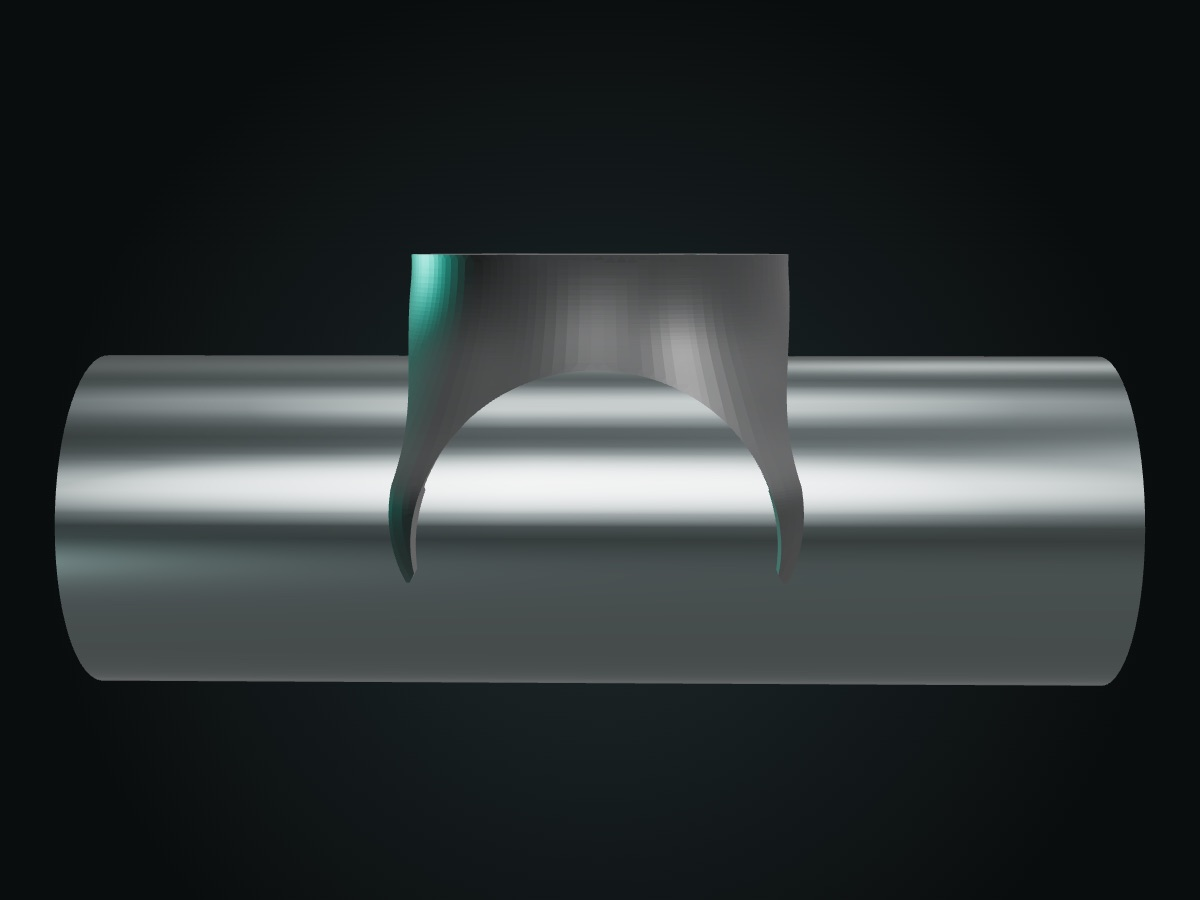
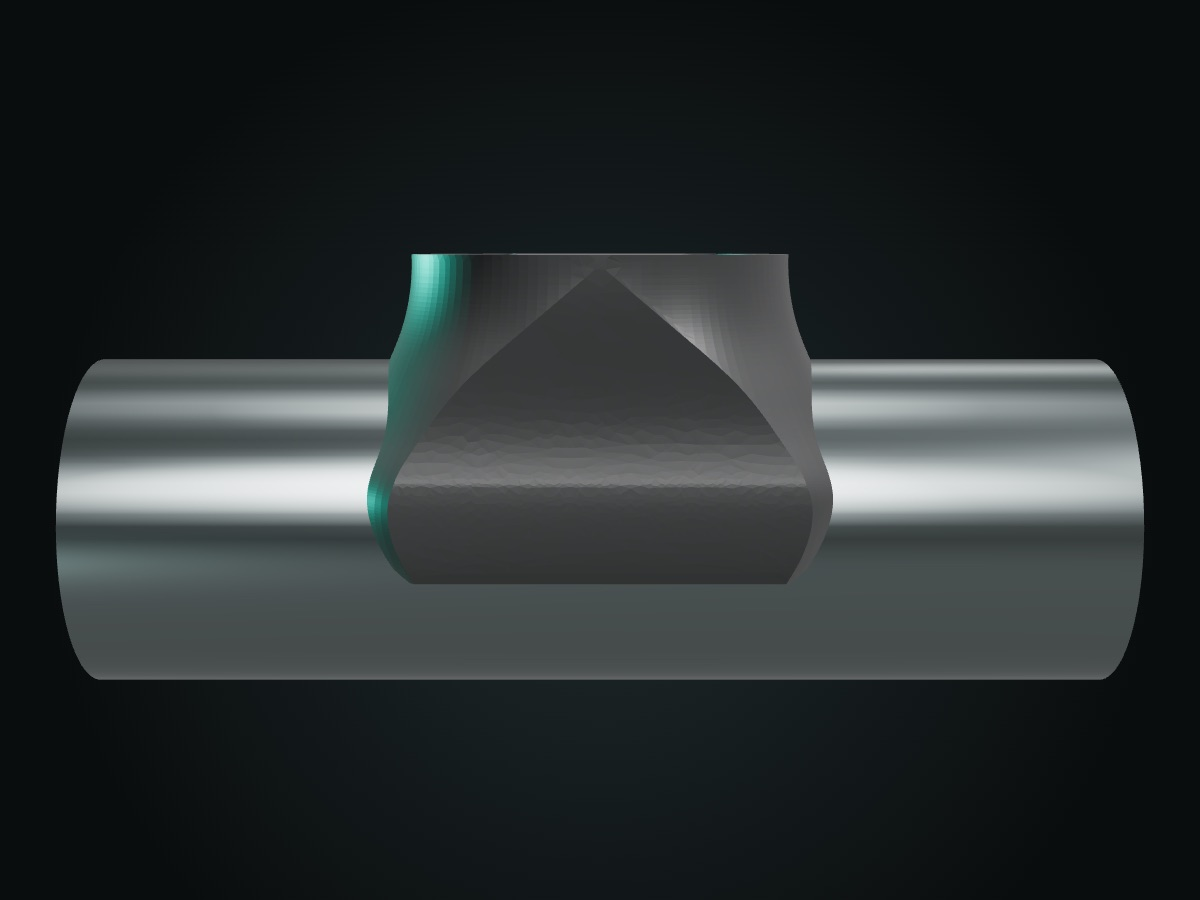
Fix bar clip orientation (bar along X) and show the silicone strips

diff --git a/product.html b/product.html
@@ -55,10 +55,10 @@
   const p = P[id];
 
   const GALLERY = {
-    kit: ['3d', 'assets/img/clip-hero.jpg', 'assets/img/clip-chalk.jpg', 'assets/img/clip-side.jpg', 'assets/img/ring.jpg'],
+    kit: ['3d', 'assets/img/clip-hero.jpg', 'assets/img/clip-strips.jpg', 'assets/img/clip-chalk.jpg', 'assets/img/ring.jpg'],
   };
   const SPECS = {
-    kit: [['Support', 'POWR Bar Clip, PETG, ≈ 42 g', 'POWR Bar Clip, PETG, ≈ 42 g', 'Soporte'], ['Fits', 'Olympic sleeves Ø50 mm', 'Manguitos olímpicos Ø50 mm', 'Compatible'], ['Magnet', 'Double-sided, N52 neodymium', 'Doble cara, neodimio N52', 'Imán'], ['Phone ring', 'Adhesive, MagSafe size (Ø46–54 mm)', 'Adhesivo, tamaño MagSafe (Ø46–54 mm)', 'Anillo'], ['Grip', 'Rubber strips, replaceable', 'Tiras de goma, reemplazables', 'Agarre'], ['Anti-rotation', 'Designed for > 0.9 N·m on the sleeve', 'Diseñado para > 0,9 N·m sobre el manguito', 'Anti-giro'], ['Made in', 'Spain', 'España', 'Fabricado en']],
+    kit: [['Support', 'POWR Bar Clip, PETG, ≈ 42 g', 'POWR Bar Clip, PETG, ≈ 42 g', 'Soporte'], ['Fits', 'Olympic sleeves Ø50 mm', 'Manguitos olímpicos Ø50 mm', 'Compatible'], ['Magnet', 'Double-sided, N52 neodymium', 'Doble cara, neodimio N52', 'Imán'], ['Phone ring', 'Adhesive, MagSafe size (Ø46–54 mm)', 'Adhesivo, tamaño MagSafe (Ø46–54 mm)', 'Anillo'], ['Grip', '4 silicone strips in the bore, replaceable', '4 tiras de silicona en el interior, reemplazables', 'Agarre'], ['Anti-rotation', 'Designed for > 0.9 N·m on the sleeve', 'Diseñado para > 0,9 N·m sobre el manguito', 'Anti-giro'], ['Made in', 'Spain', 'España', 'Fabricado en']],
   };
 
   document.title = `${p.name} — POWR`;
@@ -130,9 +130,9 @@
         viewerEl = document.createElement('div'); viewerEl.style.cssText = 'position:absolute;inset:0';
         stage.appendChild(viewerEl);
         try {
-          const { mountViewer } = await import('./assets/js/viewer.js');
+          const { mountViewer, CLIP_STRIPS, CLIP_BAR_RADIUS } = await import('./assets/js/viewer.js');
           const hex = (p.colors.find((c) => c.id === color) || p.colors[0]).hex;
-          viewer = await mountViewer(viewerEl, { parts: [{ url: p.model, color: hex }], bar: 'y', cameraDist: 270, barLength: 150, tilt: 0.42 });
+          viewer = await mountViewer(viewerEl, { parts: [{ url: p.model, color: hex }], bar: 'x', cameraDist: 270, barLength: 150, tilt: 0.42, strips: CLIP_STRIPS, barRadius: CLIP_BAR_RADIUS });
         } catch { viewerEl.innerHTML = `<img src="${p.img}" alt="" style="width:100%;height:100%;object-fit:cover">`; }
       }
       viewerEl.style.display = '';
@@ -150,7 +150,7 @@
     if (!id.includes('kit')) { ex.style.display = 'none'; return; }
     ex.innerHTML = `<div class="wrap"><div class="head center"><span class="eyebrow">${t('Designed to disappear', 'Diseñado para desaparecer')}</span><h2>${t('Engineered like a barbell collar.', 'Diseñado como un collarín.')}</h2></div>
       <div class="grid g3">
-        <div class="card reveal"><div class="ic">${'<svg viewBox="0 0 24 24" fill="none" stroke="currentColor" stroke-width="1.8" stroke-linecap="round"><circle cx="12" cy="12" r="8"/><path d="M12 4v4M12 16v4"/></svg>'}</div><h3>${t('Wraps 200° of the bar', 'Abraza 200° de la barra')}</h3><p>${t('Snaps onto the sleeve and grips with rubber strips, so it does not spin when the bar rolls.', 'Se engancha al manguito y agarra con tiras de goma: no gira cuando la barra rueda.')}</p></div>
+        <div class="card reveal"><div class="ic">${'<svg viewBox="0 0 24 24" fill="none" stroke="currentColor" stroke-width="1.8" stroke-linecap="round"><circle cx="12" cy="12" r="8"/><path d="M12 4v4M12 16v4"/></svg>'}</div><h3>${t('Wraps 200° of the bar', 'Abraza 200° de la barra')}</h3><p>${t('Snaps onto the sleeve and grips on four silicone strips, so it does not spin when the bar rolls.', 'Se engancha al manguito y agarra sobre cuatro tiras de silicona: no gira cuando la barra rueda.')}</p></div>
         <div class="card reveal d1"><div class="ic">${'<svg viewBox="0 0 24 24" fill="none" stroke="currentColor" stroke-width="1.8" stroke-linecap="round"><path d="M4 20h16M6 16l6-12 6 12"/></svg>'}</div><h3>${t('A flat face for the phone', 'Una cara plana para el móvil')}</h3><p>${t('Optimised in 1,600+ simulated shapes so the magnetic face stays flat under load — the phone sits flush and reads true.', 'Optimizado entre más de 1.600 formas simuladas para que la cara magnética siga plana con carga: el móvil apoya bien y mide bien.')}</p></div>
         <div class="card reveal d2"><div class="ic">${'<svg viewBox="0 0 24 24" fill="none" stroke="currentColor" stroke-width="1.8" stroke-linecap="round"><path d="M12 3v18M5 8l7-5 7 5"/></svg>'}</div><h3>${t('42 grams', '42 gramos')}</h3><p>${t('Light enough to forget. Stays on between sets, comes off in a second.', 'Tan ligero que te olvidas. Se queda puesto entre series y se quita en un segundo.')}</p></div>
       </div></div>`;

diff --git a/assets/js/viewer.js b/assets/js/viewer.js
@@ -1,7 +1,8 @@
 /*
  * Interactive 3D viewer for POWR hardware, straight from the CAD STL files.
- * mountViewer(el, { parts: [{url, color}], bar: 'y'|'z', autoRotate, cameraDist })
- * Model frames: bar clip = Z up, bar along Y; collar = bar along Z. Both centred on the bar axis.
+ * mountViewer(el, { parts: [{url, color}], bar: 'x'|'z', autoRotate, cameraDist })
+ * Model frames: bar clip = Z up, bar along X (see hardware/bar_clip/analysis/revF/revF_build.py);
+ * collar = bar along Z. Both centred on the bar axis.
  */
 import * as THREE from 'three';
 import { STLLoader } from 'three/addons/loaders/STLLoader.js';
@@ -23,7 +24,7 @@ export function makeMaterial(hex, finish = 'satin') {
 }
 
 export async function mountViewer(el, opts = {}) {
-  const { parts = [], bar = 'y', autoRotate = true, cameraDist = 150, barLength = 190, zoom = false, tilt = 0.5 } = opts;
+  const { parts = [], bar = 'x', autoRotate = true, cameraDist = 150, barLength = 190, zoom = false, tilt = 0.5, strips = null, barRadius = 24.8 } = opts;
   const renderer = new THREE.WebGLRenderer({ antialias: true, alpha: true, powerPreference: 'low-power' });
   renderer.setPixelRatio(Math.min(devicePixelRatio, 2));
   renderer.toneMapping = THREE.ACESFilmicToneMapping;
@@ -44,7 +45,7 @@ export async function mountViewer(el, opts = {}) {
   // Everything lives in a group whose frame is: bar axis along world X, up = world Y.
   const group = new THREE.Group(); scene.add(group);
   const model = new THREE.Group(); group.add(model);
-  if (bar === 'y') { model.rotation.x = -Math.PI / 2; model.rotation.z = Math.PI / 2; } // Z-up, bar along Y  -> Y-up, bar along X
+  if (bar === 'x') { model.rotation.x = -Math.PI / 2; }                                   // Z-up, bar along X -> Y-up, bar along X
   else { model.rotation.y = Math.PI / 2; }                                           // bar along Z -> bar along X
 
   const meshes = [];
@@ -55,10 +56,25 @@ export async function mountViewer(el, opts = {}) {
     model.add(m); meshes.push(m);
   });
 
-  // Ghost barbell sleeve for scale: knurl-less chrome, Ø50.
+  // Silicone grip strips in the bore channels (bar clip only). Each strip is 1.0 mm thick, sits in a
+  // 0.4 mm channel and stands 0.6 mm proud, so the bar touches the strips, not the plastic.
+  // Values from revF_build.py: bore Ø49.8, channels at the given angles from the top, 6 mm wide.
+  if (strips) {
+    const rubber = new THREE.MeshPhysicalMaterial({ color: '#0b0c0c', roughness: 0.9, metalness: 0 });
+    const r = strips.bore / 2;
+    strips.list.forEach(({ angle, half }) => {
+      const g = new THREE.Group();
+      const m = new THREE.Mesh(new THREE.BoxGeometry(2 * half, strips.width, strips.thickness), rubber);
+      m.position.z = r + strips.depth - strips.thickness / 2;   // outer face at the channel floor
+      g.add(m); g.rotation.x = -THREE.MathUtils.degToRad(angle);
+      model.add(g);
+    });
+  }
+
+  // Barbell sleeve for scale: knurl-less chrome.
   if (barLength) {
     const sleeve = new THREE.Mesh(
-      new THREE.CylinderGeometry(24.8, 24.8, barLength, 64, 1, false),
+      new THREE.CylinderGeometry(barRadius, barRadius, barLength, 64, 1, false),
       new THREE.MeshPhysicalMaterial({ color: '#9aa4a4', metalness: 1, roughness: 0.3, side: THREE.DoubleSide })
     );
     sleeve.rotation.z = Math.PI / 2;
@@ -95,3 +111,10 @@ export async function mountViewer(el, opts = {}) {
     renderer, scene, camera, controls, model,
   };
 }
+
+/* The POWR Bar Clip rev F as installed: four silicone strips, bar resting on them. */
+export const CLIP_STRIPS = {
+  bore: 49.8, width: 6.0, thickness: 1.0, depth: 0.4,
+  list: [-90.4, -63.3, 63.3, 90.4].map((angle) => ({ angle, half: 27 })),
+};
+export const CLIP_BAR_RADIUS = 49.8 / 2 + 0.4 - 1.0;   // bar surface touches the strips' inner faces

diff --git a/shop.html b/shop.html
@@ -40,7 +40,7 @@
     <div class="grid g3 box-grid">
       <div class="card reveal"><div class="box-ill"><svg viewBox="0 0 120 120" fill="none"><rect x="30" y="8" width="60" height="104" rx="12" stroke="#b9c3c2" stroke-width="2.5"/><circle cx="60" cy="60" r="21" stroke="#38f0d7" stroke-width="4"/><circle cx="60" cy="60" r="13" stroke="#38f0d7" stroke-width="1.5" stroke-dasharray="2 3"/></svg></div><span class="tag teal" style="width:fit-content">01</span><h3 data-es="Anillo para el móvil">Phone ring</h3><p data-es="Se pega al móvil o a la funda. Si tu iPhone tiene MagSafe, no lo necesitas.">Sticks to your phone or case. If your iPhone has MagSafe, you don't even need it.</p></div>
       <div class="card reveal d1"><div class="box-ill"><img src="assets/img/ring.jpg" alt=""></div><span class="tag teal" style="width:fit-content">02</span><h3 data-es="Imán">Magnet</h3><p data-es="Neodimio N52 de doble cara. Une el móvil al soporte y lo suelta con un giro.">Double-sided N52 neodymium. Joins phone and support, and lets go with a twist.</p></div>
-      <div class="card reveal d2"><div class="box-ill"><img src="assets/img/clip-side.jpg" alt=""></div><span class="tag teal" style="width:fit-content">03</span><h3 data-es="Soporte para la barra">Bar support</h3><p data-es="El POWR Bar Clip abraza el manguito olímpico de 50 mm y no gira cuando la barra rueda.">The POWR Bar Clip hugs any 50 mm Olympic sleeve and doesn't spin when the bar rolls.</p></div>
+      <div class="card reveal d2"><div class="box-ill"><img src="assets/img/clip-strips.jpg" alt="Inside of the POWR Bar Clip with its four silicone strips"></div><span class="tag teal" style="width:fit-content">03</span><h3 data-es="Soporte para la barra">Bar support</h3><p data-es="El POWR Bar Clip abraza el manguito olímpico de 50 mm sobre cuatro tiras de silicona, así agarra sin rayar y no gira cuando la barra rueda.">The POWR Bar Clip hugs any 50 mm Olympic sleeve on four silicone strips, so it grips without scratching and doesn't spin when the bar rolls.</p></div>
     </div>
   </div>
 </section>

diff --git a/assets/js/catalog.js b/assets/js/catalog.js
@@ -53,8 +53,8 @@ window.POWR_PRODUCTS = {
     stripeLink: '',
     shortEn: 'Your phone becomes a velocity tracker on any Olympic bar.',
     shortEs: 'Tu móvil se convierte en un medidor de velocidad en cualquier barra olímpica.',
-    boxEn: ['Phone ring — sticks to your phone or case', 'Double-sided N52 magnet', 'POWR Bar Clip support — fits 50 mm Olympic sleeves'],
-    boxEs: ['Anillo para el móvil — se pega al móvil o a la funda', 'Imán N52 de doble cara', 'Soporte POWR Bar Clip — manguitos olímpicos de 50 mm'],
+    boxEn: ['Phone ring — sticks to your phone or case', 'Double-sided N52 magnet', 'POWR Bar Clip support with 4 silicone grip strips — fits 50 mm Olympic sleeves'],
+    boxEs: ['Anillo para el móvil — se pega al móvil o a la funda', 'Imán N52 de doble cara', 'Soporte POWR Bar Clip con 4 tiras de silicona — manguitos olímpicos de 50 mm'],
     colors: [
       { id: 'black', en: 'Graphite', es: 'Grafito', hex: '#1d2021', img: 'assets/img/clip-hero.jpg' },
       { id: 'chalk', en: 'Chalk', es: 'Tiza', hex: '#e9e6df', img: 'assets/img/clip-chalk.jpg' },
